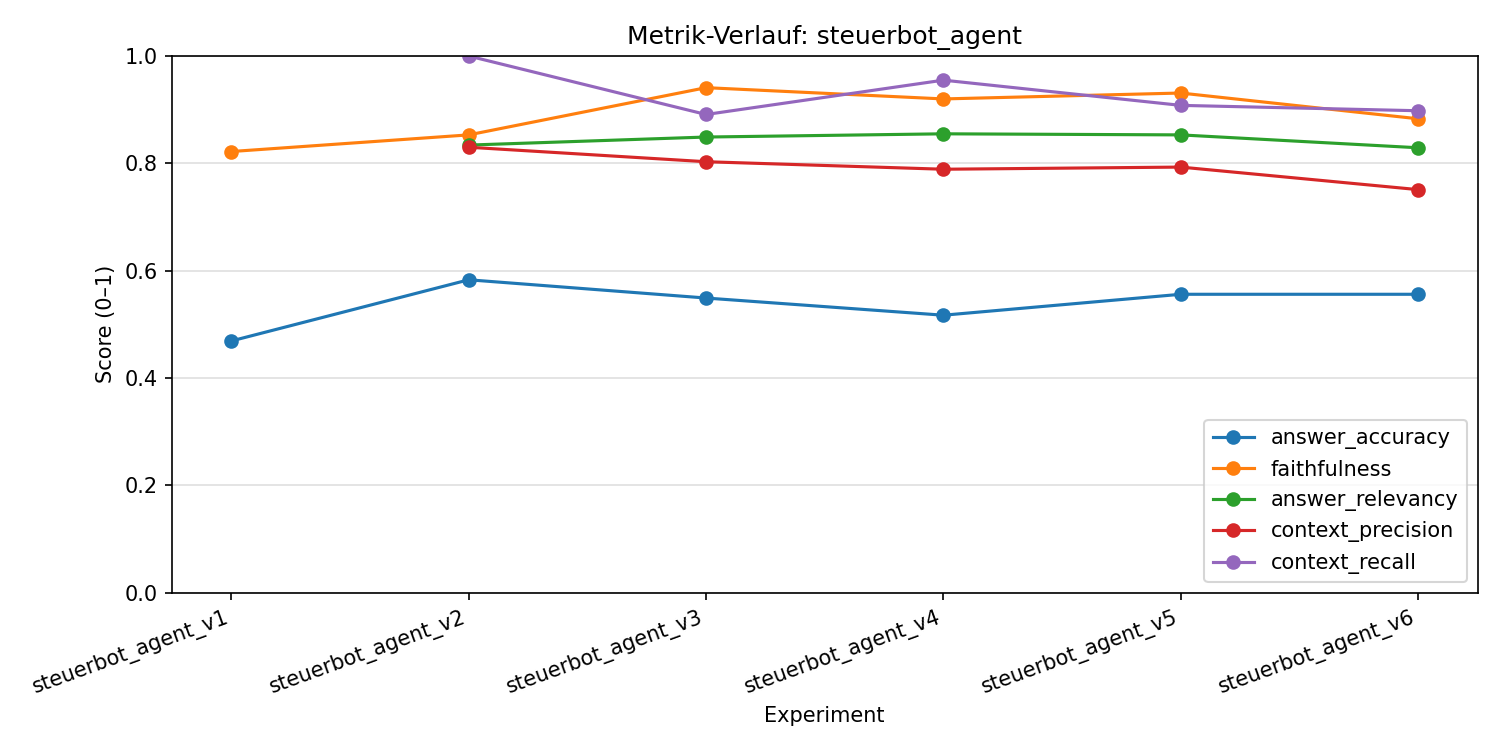
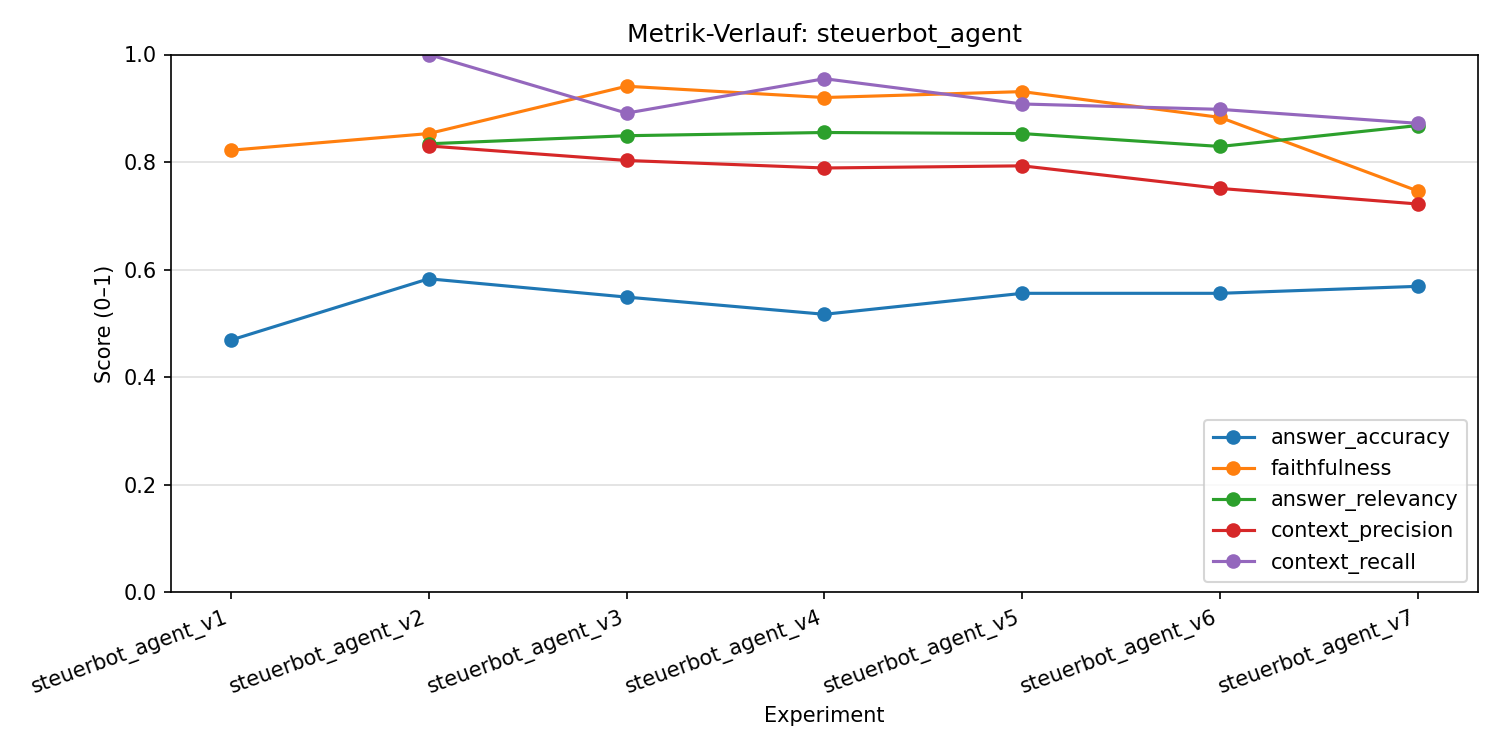
change to unique chunk hashing + better evaluation

diff --git a/evals/run_eval.py b/evals/run_eval.py
@@ -1,0 +1,30 @@
+"""
+Evaluation-Runner — ohne Streamlit.
+Verwendung:
+  uv run python evals/run_eval.py          # Agent-Evaluation (Standard)
+  uv run python evals/run_eval.py --rag    # Einfache RAG-Chain Evaluation
+  uv run python evals/run_eval.py --plot   # Nur Diagramm anzeigen
+"""
+import sys
+from pathlib import Path
+
+# Projekt-Root zum Suchpfad hinzufügen damit src/ gefunden wird
+sys.path.insert(0, str(Path(__file__).parent.parent))
+
+from dotenv import load_dotenv
+load_dotenv()
+
+import sys
+from src.vector_store import create_vector_store_with_embeddings
+from src.agent import get_agent_response
+from evals.ragas_eval import run_evaluation, run_agent_evaluation, plot_experiments
+
+if __name__ == "__main__":
+    if "--plot" in sys.argv:
+        plot_experiments(base="steuerbot_agent", save=True)
+    elif "--rag" in sys.argv:
+        vector_store = create_vector_store_with_embeddings()
+        run_evaluation(vector_store)
+    else:
+        vector_store = create_vector_store_with_embeddings()
+        run_agent_evaluation(vector_store, get_agent_response)

diff --git a/src/document_loader.py b/src/document_loader.py
@@ -86,5 +86,18 @@ def split_documents(docs: list[Document]) -> list[Document]:
     # Leere und zu kurze Chunks entfernen (Seitenzahlen, isolierte Überschriften, Leerseiten)
     all_chunks = [c for c in all_chunks if len(c.page_content.strip()) >= 30]
 
-    print(f"✂  {len(all_chunks)} Chunks erstellt")
-    return all_chunks
+    # Inhaltsduplikate entfernen — gleiche Quelle + gleicher Text → nur einmal speichern
+    # Verhindert doppelte Embeddings und ChromaDB DuplicateIDError
+    seen: set[str] = set()
+    unique_chunks = []
+    for chunk in all_chunks:
+        key = f"{chunk.metadata.get('source', '')}|{chunk.page_content}"
+        if key not in seen:
+            seen.add(key)
+            unique_chunks.append(chunk)
+    removed = len(all_chunks) - len(unique_chunks)
+    if removed:
+        print(f"🔁 {removed} doppelte Chunks entfernt")
+
+    print(f"✂  {len(unique_chunks)} Chunks erstellt")
+    return unique_chunks

diff --git a/src/utils_parsing.py b/src/utils_parsing.py
@@ -42,10 +42,13 @@ def extract_steuerbuch_urls(messages: list) -> list[str]:
     return list(dict.fromkeys(urls))
 
 #def make_ids(chunks: list[Document]) -> list[str]:
-    return [f"{c.metadata.get('source', 'unknown')}_{i}" for i, c in enumerate(chunks)]
+#   return [f"{c.metadata.get('source', 'unknown')}_{i}" for i, c in enumerate(chunks)]
 
 def make_ids(chunks: list[Document]) -> list[str]:
+    # source + page + content → eindeutig auch bei identischem Inhalt auf verschiedenen Seiten
     return [
-        f"{c.metadata.get('source', 'unknown')}_{hashlib.md5(c.page_content.encode()).hexdigest()[:8]}"
-        for c in chunks
+        hashlib.md5(
+            f"{c.metadata.get('source', 'unknown')}|{c.metadata.get('page', i)}|{c.page_content}".encode()
+        ).hexdigest()
+        for i, c in enumerate(chunks)
     ]

diff --git a/README.md b/README.md
@@ -37,7 +37,7 @@ LANGFUSE_BASE_URL="..."
 Beim ersten Start wird die ChromaDB automatisch befüllt (Embeddings werden einmalig generiert, ca. 2–7 Minuten). Bei nachfolgenden Starts wird die bestehende DB verwendet.
 
 ```bash
-uv run streamlit run main.py
+uv run streamlit run app.py
 ```
 
 **ChromaDB neu aufbauen** (nach neuen Dokumenten oder Änderungen am Chunking):
@@ -185,12 +185,12 @@ Oftmals ist die Frage des Nutzers nicht präzise formuliert, fehlerhaft oder ent
 #### Agent
 Der Agent ([LangChain](https://docs.langchain.com/oss/python/langchain/agents)) entscheidet kontextabhängig ob das Tool `search_steuerbuch` aufgerufen werden soll. Eine genau Beschreibung mit den entsprechenden Anweisungen sind im Docstring definiert. Über den Systemprompt haben wir die Regeln für das verhalten festgelegt sowie den Tool Aufruf definiert. Zusätzlich sollen zwingend alle Antworten mit einer entsprechenden Quellenangabe versehen werden.
 
-Mit diesen Anweisungen unterdrücken wir auch mögliche Halluzinationen. Wenn keine sinnvollen Informationen für eine eindeutige Antwort gefunden werden, soll das LLM folgendes Antworten: "'Dazu konnte ich keine eindeutige Antwort finden. "
+Mit diesen Anweisungen unterdrücken wir auch mögliche Halluzinationen. Wenn keine sinnvollen Informationen für eine eindeutige Antwort gefunden werden, soll das LLM folgendes Antworten: "Dazu konnte ich keine eindeutige Antwort finden. "
 
 ```python
 LLM: "gpt-4o"
 max_tokens=3000
-temperature=0.2
+temperature=0
 streaming=True
 ```
 
@@ -262,7 +262,6 @@ Insgesamt war der Aufbau der Struktur und der Logik sehr herausfordernd. Für un
 
 ### Technologie-Stack
 
-  
 
 | **Komponente**  | **Technologie**                                                    |
 | --------------- | ------------------------------------------------------------------ |
